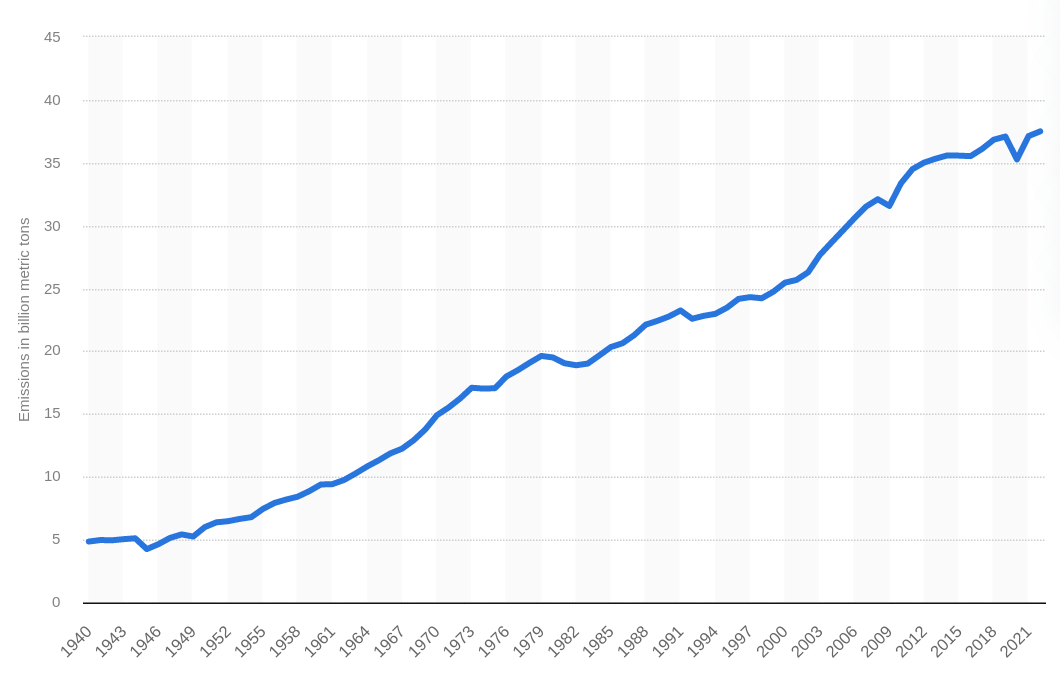
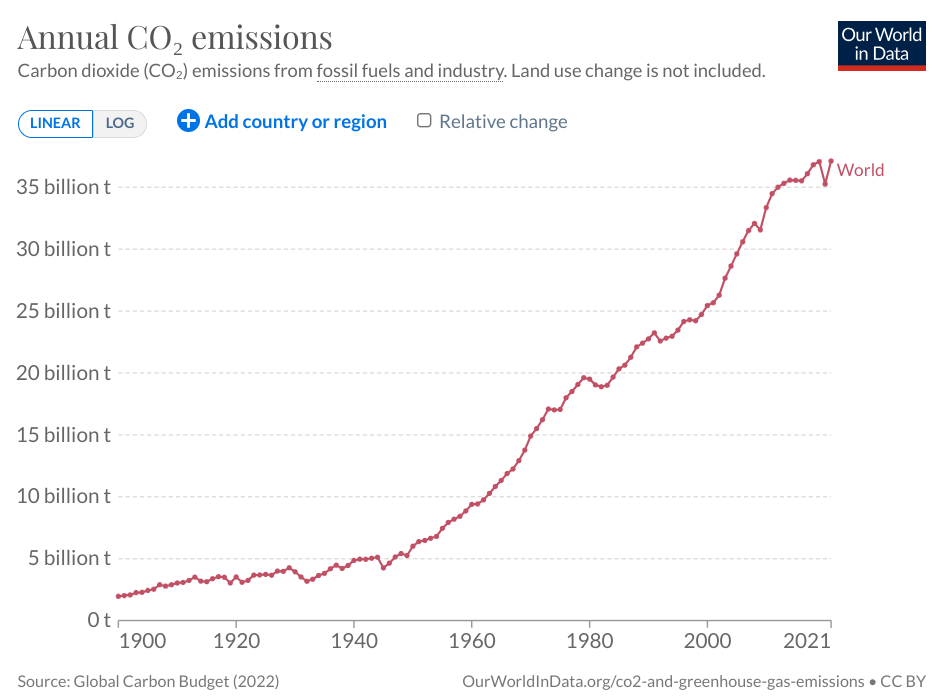
Make on 2023-08-07T13:55:05Z

diff --git a/2023/climate-change-conclusion.html b/2023/climate-change-conclusion.html
@@ -72,25 +72,31 @@
                     <img src="pics/climate-change-burning.jpg" title="A bush fire in NSW, Australia. Burning logs and trees in the middle in the forest." alt="" /><figcaption>And yet we continue burning stuff. <a href="https://www.climatechange.environment.nsw.gov.au/bushfires">Source: NMichele Cooper/DPI</a>.</figcaption>
                     </figure>
                     <p>After looking at a few options to help us deal with climate change, it’s now time to evaluate them in cold blood and see if they can make any difference. Then we will consider collective action and how to make it count.</p>
-                    <h1 id="taking-action">Taking Action</h1>
-                    <p>This will be a more militant post than those preceding it. Now is the time to take sides and to do something about it.</p>
-                    <h2 id="evaluation">Evaluation</h2>
+                    <p><strong>Warning:</strong> This will be a more militant post than those preceding it. Because now is the time to take sides and to do something about it.</p>
+                    <h1 id="evaluation">Evaluation</h1>
                     <p>Let us first do a comparative evaluation of the three solutions that have been considered so far: <a href="/2023/climate-change-trees">🌲 planting trees</a>, <a href="/2023/climate-change-roofs">🪩 :mirror roofs</a>, and <a href="/2023/climate-change-screens">🛰 space screens</a>. In reverse order for fun.</p>
-                    <h3 id="space-screens">🛰 Space Screens</h3>
+                    <h2 id="space-screens">🛰 Space Screens</h2>
                     <p>Sending <a href="/2023/climate-change-screens">a giant swarm of screens to space</a> can shield us from some of the Sun and reduce surface temperatures on Earth. This plan is actually not a solution, but at most a mitigation strategy that can buy us a few decades. There can be unforeseen consequences to reducing the amount of sunlight we receive; even more than most of these mega-infrastructure projects, it needs to be carefully considered to think about the consequences. Even the plan itself is full of incognitas, and it is not even clear that it is feasible with current technologies. There are in fact many alternative plans that have been proposed: from a single giant mirror to a swarm of small screens, with all intermediate possibilities.</p>
                     <p>But it is just possible that we will need to take mitigation actions before we can come up with a full solution. A small scale implementation can teach us a lot about the required technologies: space guns, satellite swarms, orbiting and de-orbiting stuff.</p>
                     <p>Having a viable and ready space gun can enable deep space exploration by humans: just send all the required materials and machines to orbit, assemble them up there, and then send the astronauts to board the finished product. Minimal cost and emissions would be required.</p>
-                    <h3 id="mirror-roofs">🪩 Mirror Roofs</h3>
-                    <p>Mandating mirror roofs can make us think about how to make cities more livable. Just yesterday I saw <a href="https://www.reuters.com/graphics/CLIMATE-CHANGE/URBAN-HEAT/zgpormdkevd/">this infographic by Reuters</a> which shows in a very impressive way the impact of trees and green in a city, and how asphalt makes our lives miserable. Lowering air conditioning requirements would also be a very welcome consequence.</p>
-                    <h3 id="planting-trees">🌲 Planting Trees</h3>
-                    <p>Finally, we have to revert all the CO₂ we have poured into the atmosphere, first unwittingly and later almost criminally.</p>
-                    <h3 id="other-solutions">🔎 Other Solutions</h3>
+                    <h2 id="mirror-roofs">🪩 Mirror Roofs</h2>
+                    <p>Mandating <a href="/2023/climate-change-roofs">🪩 mirror roofs</a> on top of buildings can make us think about how to make cities more livable. Just yesterday I saw <a href="https://www.reuters.com/graphics/CLIMATE-CHANGE/URBAN-HEAT/zgpormdkevd/">this infographic by Reuters</a> which shows in a very impressive way how asphalt makes our lives in the city miserable. Lowering air conditioning requirements would also be a very welcome consequence.</p>
+                    <p>But the solutions explored go beyond mirror roofs: solar panels shielding crops can bring surprising synergies: electricity generation plus improved yields. The computations presented can guide us in increasing the albedo of our cities, our countries and our planet, to help cool the environment.</p>
+                    <p>What is today just a convenience can become tomorrow the difference between life and death for many people that cannot afford air conditioning.</p>
+                    <h2 id="planting-trees">🌲 Planting Trees</h2>
+                    <p>Finally, we have to revert all the CO₂ we have poured into the atmosphere, first unwittingly and later almost criminally. By <a href="/2023/climate-change-trees">🌲 planting trees</a> on a massive scale we can remove basically <strong>all the excess carbon</strong> in the atmosphere.</p>
+                    <p>This is in my opinion our best chance. We need a huge concerted scale from all governments on Earth: planting trees on 30% of the land surface is not going to be easy. Taking my home country of Spain as an example, it can be done in a few decades.</p>
+                    <p>Forget about “carbon capture technologies”; trees are our best ally, as they have been for millions of years. The biggest challenge is to find enough room to plant so many trees.</p>
+                    <p>It is interesting to see so many people that are skeptical to this project, and that basically see it as hippie hand-waving. But we are not speaking about reforesting the Sahara, which presents significant engineering challenges. Just by chance deserts make up exactly 33% of the land surface, but they are hard to make green again. Instead, just planting semi-arid areas would get us more than half the way.</p>
+                    <figure>
+                    <img src="pics/climate-change-spain.jpg" title="Satellite view of Spain, showing the 30% of arid and semi-arid areas that can be reforested." alt="" /><figcaption>Just look for those semi-arid light brown areas and start planting. <a href="https://eoimages.gsfc.nasa.gov/images/imagerecords/66000/66826/Spain.A2003170.1120.250m.jpg">Source: NASA</a>.</figcaption>
+                    </figure>
+                    <h2 id="other-solutions">🔎 Other Solutions</h2>
                     <p>Are these the most promising solutions for climate change? Not at all; I have chosen them because they are thought-provoking and fun to think about.</p>
-                    <h2 id="my-contribution">My Contribution</h2>
-                    <p>What do I intend to do? For starters, stop paying attention to those “carbon capture” supposedly high-tech projects, which I think are just lame attempts at fixing our problems with technology, when better solutions are right there in front of us. I may of course be wrong.</p>
-                    <p>It is possible to fix our climate, but it will not be easy. The problem is getting bigger every year, so we really need to act now. A concerted effort by every government in the planet will be necessary. I sincerely hope that we spring to action before the situation is too severe.</p>
-                    <p>I strongly believe that we should <em>immediately</em>: * switch to low-carbon energy sources, * start building nuclear power stations right away, * electrify transport urgently and switch to low-emissions construction techniques, * use the list of <a href="https://en.wikipedia.org/wiki/List_of_countries_by_carbon_dioxide_emissions_per_capita">CO₂ emissions per capita</a> as a hall of shame, * raise sactions against the worst polluters.</p>
-                    <p>In short, treat it as the worldwide emergency that it is now, and as the impending catastrophe that we may have upon us in a few decades.</p>
+                    <p>Project Drawdown has a <a href="https://drawdown.org/solutions/table-of-solutions">list of solutions</a> which are viable right now and which combined can have a huge impact: between 1000 and 1600 gigatons of CO₂. Remember that we are dealing with some 1600 gigatons of excess CO₂ in the atmosphere, or about 400 gigatons of carbon (since each molecule of CO₂ only has ~27% of carbon in weight). They range from <a href="https://drawdown.org/solutions/bamboo-production">planting bamboo</a> to <a href="https://drawdown.org/solutions/clean-cooking">stop cooking with carbon</a>, with many other ideas, Most of the projects are a bit too pedestrian to have fun thinking about them, though.</p>
+                    <p>In my opinion we will get all the help we can get.</p>
+                    <h1 id="taking-action">Taking Action</h1>
+                    <p>Now let’s see what courses of action we have available, and if they are any good.</p>
                     <h2 id="climate-change-skeptics">🤦 Climate Change Skeptics</h2>
                     <p>But first we need to convince everyone in the planet of the danger. Many people are denying the scientific and empirical evidence of climate change. Why is this?</p>
                     <h3 id="i-dont-want-to-believe">🙈 I Don’t Want to Believe</h3>
@@ -101,9 +107,22 @@
                     <h3 id="convincing-the-skeptics">🤯 Convincing the Skeptics</h3>
                     <p>So, what can we do about it?</p>
                     <p>In this regard, the quick changes in climate that we are witnessing right now can be a mixed blessing, as they are opening the eyes of many climate denialists. Making everyone participate of the challenges involved in turning the tide can perhaps help the general population to understand the huge efforts involved. The reversal of so many decades of reckless carbonization will involve sacrifices for everyone on the planet; probably changing our way of life, perhaps sacrifice some sacred cows. We need to be ready.</p>
-                    <h2 id="conclusion">🤔 Conclusion</h2>
+                    <h2 id="cleaning-up-our-act">🚯 Cleaning Up Our Act</h2>
+                    <p>But the most important action we can take is not to solve the existing problem: it is to stop the problem from growing even bigger. Up to now we have not stopped emitting CO2, far from it: we are emitting more, and <strong>the rate is increasing</strong>.</p>
+                    <figure>
+                    <img src="pics/climate-change-emissions.png" title="CO2 emissions from 1900 to 2021. Raising almost linearly from 1940 to 2020, a small dip in 2020 from 37 to 35 gigatons, then up again to 37 in 2021." alt="" /><figcaption>CO2 emissions are still growing. Yes, we are that clever. <a href="https://ourworldindata.org/co2-emissions">Source: Our World in Data</a>.</figcaption>
+                    </figure>
+                    <p>Yes, we are that clever.</p>
+                    <p>This excellent source from Alfredo García is sadly only in Spanish: <a href="https://www.planetadelibros.com/libro-la-energia-nuclear-salvara-el-mundo/312496">Nuclear Energy Will Save the World</a>.</p>
+                    <p>Despite some holdovers from the 1980s like (shame) <a href="https://www.greenpeace.org/international/story/52758/reasons-why-nuclear-energy-not-way-green-and-peaceful-world/">Greenpeace</a>.</p>
+                    <h1 id="conclusion">🤔 Conclusion</h1>
                     <p>Climate change is upon us; every year we are breaking temperature records, and previously cool areas are becoming unbearable in summer. Taking carbon out of the atmosphere will help alleviate the most severe effects. We can start doing it right now, with low tech projects such as planting trees everywhere.</p>
                     <p>We can also get creative, like with mirror rooftop installations.</p>
+                    <h2 id="my-contribution">My Contribution</h2>
+                    <p>What do I intend to do? For starters, stop paying attention to those “carbon capture” supposedly high-tech projects, which I think are just lame attempts at fixing our problems with technology, when better solutions are right there in front of us. I may of course be wrong.</p>
+                    <p>It is possible to fix our climate, but it will not be easy. The problem is getting bigger every year, so we really need to act now. A concerted effort by every government in the planet will be necessary. I sincerely hope that we spring to action before the situation is too severe.</p>
+                    <p>I strongly believe that we should <em>immediately</em>: * switch to low-carbon energy sources, * start building nuclear power stations right away, * electrify transport urgently and switch to low-emissions construction techniques, * use the list of <a href="https://en.wikipedia.org/wiki/List_of_countries_by_carbon_dioxide_emissions_per_capita">CO₂ emissions per capita</a> as a hall of shame, * raise sactions against the worst polluters.</p>
+                    <p>In short, treat it as the worldwide emergency that it is now, and as the impending catastrophe that we may have upon us in a few decades.</p>
                     <h3 id="acknowledgements">🙏 Acknowledgements</h3>
                     <p>I have learned a lot speaking about these issues with many friends, including Juan Villamizar y Juan Searle.</p>
 								</div>

diff --git a/2023/climate-change-trees.html b/2023/climate-change-trees.html
@@ -91,9 +91,9 @@
                     <pre><code>N(trees) = T(C) / m(C).</code></pre>
                     <p>That’s it! Problem solved, Earth saved.</p>
                     <h3 id="total-excess-carbon">🛢 Total Excess Carbon</h3>
-                    <p>First let’s estimate the total amount of excess carbon in the atmosphere. If we look at the <a href="https://www.statista.com/statistics/276629/global-co2-emissions/">data from Statista</a>, there is a more or less steady linear increase from about 1943 to 2021. (Yes, emissions are still increasing, we are that clever.) Latest numbers are 37 billion metric tons of CO₂.</p>
+                    <p>First let’s estimate the total amount of excess carbon in the atmosphere. If we look at the <a href="https://ourworldindata.org/co2-emissions">data from Our World in Data</a>, there is a more or less steady linear increase from around 1945 to 2021. (Yes, emissions are still increasing, we are that clever.) Latest numbers are 37 billion metric tons of CO₂.</p>
                     <figure>
-                    <img src="pics/climate-change-emissions.png" title="Gigatons of excess CO₂, starting at 5 in 1940 and going up to almost 40 in 2021. The graph is approximately linear, with a softer slope at the beginning: by 1980 we are at 19.5 gigatons." alt="" /><figcaption>Annual carbon dioxide (CO₂) emissions worldwide from 1940 to 2022. Source: <a href="https://www.statista.com/statistics/276629/global-co2-emissions/">Statista</a>.</figcaption>
+                    <img src="pics/climate-change-emissions.png" title="Gigatons of excess CO₂, starting at 2 in 1900 and going up to almost 40 in 2021. The graph is approximately linear from 1940 to present, with a softer slope at the beginning: by 1980 we are at 19.5 gigatons." alt="" /><figcaption>Annual carbon dioxide (CO₂) emissions worldwide from 1940 to 2022. Source: <a href="https://ourworldindata.org/co2-emissions">Our World in Data</a>.</figcaption>
                     </figure>
                     <p>Say we have a completely linear graph from 1940 to 2020 (80 years), the total of carbon emissions would be something like the number of years multiplied by the midpoint:</p>
                     <pre><code>T ≈ 80 × 40 / 2 GtCO₂ ≈ 1600 GtCO₂.</code></pre>

diff --git a/2023/climate-change-conclusion.md b/2023/climate-change-conclusion.md
@@ -12,12 +12,10 @@ After looking at a few options to help us deal with climate change,
 it's now time to evaluate them in cold blood and see if they can make any difference.
 Then we will consider collective action and how to make it count.
 
-# Taking Action
+**Warning:** This will be a more militant post than those preceding it.
+Because now is the time to take sides and to do something about it.
 
-This will be a more militant post than those preceding it.
-Now is the time to take sides and to do something about it.
-
-## Evaluation
+# Evaluation
 
 Let us first do a comparative evaluation of the three solutions that have been considered so far:
 [🌲 planting trees](/2023/climate-change-trees),
@@ -25,7 +23,7 @@ Let us first do a comparative evaluation of the three solutions that have been c
 and [🛰  space screens](/2023/climate-change-screens).
 In reverse order for fun.
 
-### 🛰  Space Screens
+## 🛰  Space Screens
 
 Sending [a giant swarm of screens to space](/2023/climate-change-screens)
 can shield us from some of the Sun and reduce surface temperatures on Earth.
@@ -50,50 +48,74 @@ assemble them up there,
 and then send the astronauts to board the finished product.
 Minimal cost and emissions would be required.
 
-### 🪩  Mirror Roofs
+## 🪩  Mirror Roofs
 
-Mandating mirror roofs can make us think about how to make cities more livable.
+Mandating [🪩 mirror roofs](/2023/climate-change-roofs) on top of  buildings
+can make us think about how to make cities more livable.
 Just yesterday I saw [this infographic by Reuters](https://www.reuters.com/graphics/CLIMATE-CHANGE/URBAN-HEAT/zgpormdkevd/)
-which shows in a very impressive way the impact of trees and green in a city,
-and how asphalt makes our lives miserable.
+which shows in a very impressive way how asphalt makes our lives in the city miserable.
 Lowering air conditioning requirements would also be a very welcome consequence.
 
-### 🌲 Planting Trees
+But the solutions explored go beyond mirror roofs:
+solar panels shielding crops can bring surprising synergies:
+electricity generation plus improved yields.
+The computations presented can guide us in increasing the albedo of our cities,
+our countries and our planet,
+to help cool the environment.
+
+What is today just a convenience can become tomorrow the difference between life and death
+for many people that cannot afford air conditioning.
+
+## 🌲 Planting Trees
 
 Finally, we have to revert all the CO₂ we have poured into the atmosphere,
 first unwittingly and later almost criminally.
+By [🌲 planting trees](/2023/climate-change-trees)
+on a massive scale we can remove basically **all the excess carbon** in the atmosphere.
 
-### 🔎 Other Solutions
+This is in my opinion our best chance.
+We need a huge concerted scale from all governments on Earth:
+planting trees on 30% of the land surface is not going to be easy.
+Taking my home country of Spain as an example,
+it can be done in a few decades.
+
+Forget about "carbon capture technologies";
+trees are our best ally,
+as they have been for millions of years.
+The biggest challenge is to find enough room to plant so many trees.
+
+It is interesting to see so many people that are skeptical to this project,
+and that basically see it as hippie hand-waving.
+But we are not speaking about reforesting the Sahara,
+which presents significant engineering challenges.
+Just by chance deserts make up exactly 33% of the land surface,
+but they are hard to make green again.
+Instead, just planting semi-arid areas would get us more than half the way.
+
+![Just look for those semi-arid light brown areas and start planting. [Source: NASA](https://eoimages.gsfc.nasa.gov/images/imagerecords/66000/66826/Spain.A2003170.1120.250m.jpg).](pics/climate-change-spain.jpg "Satellite view of Spain, showing the 30% of arid and semi-arid areas that can be reforested.")
+
+## 🔎 Other Solutions
 
 Are these the most promising solutions for climate change?
 Not at all;
 I have chosen them because they are thought-provoking and fun to think about.
 
-## My Contribution
+Project Drawdown has a [list of solutions](https://drawdown.org/solutions/table-of-solutions)
+which are viable right now and which combined can have a huge impact:
+between 1000 and 1600 gigatons of CO₂.
+Remember that we are dealing with some 1600 gigatons of excess CO₂ in the atmosphere,
+or about 400 gigatons of carbon (since each molecule of CO₂ only has ~27% of carbon in weight).
+They range from [planting bamboo](https://drawdown.org/solutions/bamboo-production)
+to [stop cooking with carbon](https://drawdown.org/solutions/clean-cooking),
+with many other ideas,
+Most of the projects are a bit too pedestrian to have fun thinking about them, though.
 
-What do I intend to do?
-For starters, stop paying attention to those "carbon capture" supposedly high-tech projects,
-which I think are just lame attempts at fixing our problems with technology,
-when better solutions are right there in front of us.
-I may of course be wrong.
+In my opinion we will get all the help we can get.
 
-It is possible to fix our climate, but it will not be easy.
-The problem is getting bigger every year,
-so we really need to act now.
-A concerted effort by every government in the planet will be necessary.
-I sincerely hope that we spring to action before the situation is too severe.
+# Taking Action
 
-I strongly believe that we should _immediately_:
-* switch to low-carbon energy sources,
-* start building nuclear power stations right away,
-* electrify transport urgently and switch to low-emissions construction techniques,
-* use the list of
-[CO₂ emissions per capita](https://en.wikipedia.org/wiki/List_of_countries_by_carbon_dioxide_emissions_per_capita)
-as a hall of shame,
-* raise sactions against the worst polluters.
-
-In short, treat it as the worldwide emergency that it is now,
-and as the impending catastrophe that we may have upon us in a few decades.
+Now let's see what courses of action we have available,
+and if they are any good.
 
 ## 🤦 Climate Change Skeptics
 
@@ -142,7 +164,24 @@ The reversal of so many decades of reckless carbonization will involve sacrifice
 probably changing our way of life, perhaps sacrifice some sacred cows.
 We need to be ready.
 
-## 🤔 Conclusion
+## 🚯 Cleaning Up Our Act
+
+But the most important action we can take is not to solve the existing problem:
+it is to stop the problem from growing even bigger.
+Up to now we have not stopped emitting CO2, far from it:
+we are emitting more, and **the rate is increasing**.
+
+![CO2 emissions are still growing. Yes, we are that clever. [Source: Our World in Data](https://ourworldindata.org/co2-emissions).](pics/climate-change-emissions.png "CO2 emissions from 1900 to 2021. Raising almost linearly from 1940 to 2020, a small dip in 2020 from 37 to 35 gigatons, then up again to 37 in 2021.")
+
+Yes, we are that clever.
+
+This excellent source from Alfredo García is sadly only in Spanish:
+[Nuclear Energy Will Save the World](https://www.planetadelibros.com/libro-la-energia-nuclear-salvara-el-mundo/312496).
+
+Despite some holdovers from the 1980s like (shame)
+[Greenpeace](https://www.greenpeace.org/international/story/52758/reasons-why-nuclear-energy-not-way-green-and-peaceful-world/).
+
+# 🤔 Conclusion
 
 Climate change is upon us;
 every year we are breaking temperature records,
@@ -153,6 +192,32 @@ with low tech projects such as planting trees everywhere.
 
 We can also get creative,
 like with mirror rooftop installations.
+
+## My Contribution
+
+What do I intend to do?
+For starters, stop paying attention to those "carbon capture" supposedly high-tech projects,
+which I think are just lame attempts at fixing our problems with technology,
+when better solutions are right there in front of us.
+I may of course be wrong.
+
+It is possible to fix our climate, but it will not be easy.
+The problem is getting bigger every year,
+so we really need to act now.
+A concerted effort by every government in the planet will be necessary.
+I sincerely hope that we spring to action before the situation is too severe.
+
+I strongly believe that we should _immediately_:
+* switch to low-carbon energy sources,
+* start building nuclear power stations right away,
+* electrify transport urgently and switch to low-emissions construction techniques,
+* use the list of
+[CO₂ emissions per capita](https://en.wikipedia.org/wiki/List_of_countries_by_carbon_dioxide_emissions_per_capita)
+as a hall of shame,
+* raise sactions against the worst polluters.
+
+In short, treat it as the worldwide emergency that it is now,
+and as the impending catastrophe that we may have upon us in a few decades.
 
 ### 🙏 Acknowledgements
 

diff --git a/2023/climate-change-trees.md b/2023/climate-change-trees.md
@@ -103,12 +103,12 @@ Problem solved, Earth saved.
 ### 🛢 Total Excess Carbon
 
 First let's estimate the total amount of excess carbon in the atmosphere.
-If we look at the [data from Statista](https://www.statista.com/statistics/276629/global-co2-emissions/),
-there is a more or less steady linear increase from about 1943 to 2021.
+If we look at the [data from Our World in Data](https://ourworldindata.org/co2-emissions),
+there is a more or less steady linear increase from around 1945 to 2021.
 (Yes, emissions are still increasing, we are that clever.)
 Latest numbers are 37 billion metric tons of CO₂.
 
-![Annual carbon dioxide (CO₂) emissions worldwide from 1940 to 2022. Source: [Statista](https://www.statista.com/statistics/276629/global-co2-emissions/).](pics/climate-change-emissions.png "Gigatons of excess CO₂, starting at 5 in 1940 and going up to almost 40 in 2021. The graph is approximately linear, with a softer slope at the beginning: by 1980 we are at 19.5 gigatons.")
+![Annual carbon dioxide (CO₂) emissions worldwide from 1940 to 2022. Source: [Our World in Data](https://ourworldindata.org/co2-emissions).](pics/climate-change-emissions.png "Gigatons of excess CO₂, starting at 2 in 1900 and going up to almost 40 in 2021. The graph is approximately linear from 1940 to present, with a softer slope at the beginning: by 1980 we are at 19.5 gigatons.")
 
 Say we have a completely linear graph from 1940 to 2020 (80 years),
 the total of carbon emissions would be something like the number of years multiplied by the midpoint:
